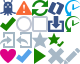
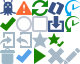
Deploy spaces-dev/SpacesPlus to github.com/spaces-dev/SpacesPlus.git:gh-pages

Changed region(s): [[0.0, 0.75, 0.2, 1.0]]

diff --git a/css/menu.css b/css/menu.css
@@ -1,1 +1,1 @@
-.sp-input-error{border:1px solid #ff9a95;background-color:#fdf3ef}.sp-cbfb+label:before{left:12px!important;top:13px!important}.sp-cbfc+label:before{left:10px!important;top:13px!important}.sp-cbfr+label:before{left:5px!important;top:2px!important}.rotate270{transform:rotate(270deg) translateY(-100%) translateY(100%) translateX(100%) translateX(-100%)!important}.rotate180{transform:rotate(180deg) translateY(100%) translateY(-100%)!important}.rotate90{transform:rotate(90deg)!important}.sp_settings-wrap{padding:11px 15px}.sp_bg-items{display:inline-block;max-width:100%;width:100%}.sp_weather-img{display:block;margin-left:auto;margin-right:auto}.sp_weather-container{margin-bottom:10px;text-align:center;font-size:18px}.sp_weather-table>tbody>tr>td{width:100%;max-width:inherit;padding-top:4px;overflow:hidden}.sp_weather-table>tbody>tr>td:last-child{text-align:right}.sp-ch-text{color:#57a3ea;padding-left:10px}.sp-del-text{color:#f86934;padding-left:10px}.sp-ch-readers{right:50px;top:-42px;padding-left:8px!important;padding-right:0!important}.sp-ch-blogs{padding:13px 5px 12px 30px!important}.pointer{cursor:pointer}.sp_unsupported{background:#f9edbf!important}@media (min-width:900px){.sticker{width:25rem;max-width:25rem!important}}.sp-sticker-anim{animation-duration:.3s;animation-name:fadeIn}@keyframes fadeIn{0%{opacity:0}to{opacity:1}}#api_debug-place{background:#ecf5fd;padding:8px;display:none}#api_debug-result_info{font-size:small}.mr-14{margin-right:14px!important}.sp_recent-del{float:left;margin:3px 0 0 5px;cursor:pointer}.sp_recent-smile-btn{padding:0 8px 2px 0;cursor:pointer}.sp_recent-smile{padding:2px;cursor:pointer}.smiles_menu{margin-bottom:10px}.sp_noborder{border-top:unset!important;border-bottom:unset!important}.sp_newbq_l{border-top:1px solid #c5d3e1!important}.sp_font_sm{font-size:small!important}.sp_last_btn{font-size:small;border-bottom:unset!important}.sp_plus_btn_list{width:50%;display:inline-block;box-sizing:border-box!important}.sp_error-block{padding-left:30px;font-size:small}.sp_plus_line_c:before{content:"";display:block;border-bottom:1px solid #cdd4e1;left:48px;right:80px;top:50%;position:absolute}.sp_plus_line_c{position:relative}.sp_plus_c_desc{font-size:small;margin-left:3rem}.sp_plus_c_wrap{padding:5px 15px 5px 16px;display:block}ul.list>li{margin:10px}.close_h:hover{opacity:.8}@media (min-width:1024px){.w400{max-width:400px}}.border{border:1px solid #b4bed1}#check_point_full_info{background:#4d5961;box-shadow:0 3px 5px #293238}#debug .check_point:hover,.tree_element:hover>.ns{background:#818f99}.disabled{cursor:not-allowed}div.row4{color:#000}input[type=range]{background:0 0;height:0;-webkit-appearance:none;margin:10px 0;width:100%}input[type=range]:focus{outline:0}input[type=range]::-webkit-slider-runnable-track{width:100%;height:10px;cursor:pointer;animation:.2s;background:#395387;border-radius:32px;border:0 solid #000}input[type=range]::-webkit-slider-thumb{border:0 solid #2497e3;height:10px;width:10px;border-radius:4px;background:#395387;cursor:pointer;-webkit-appearance:none;margin-top:0}input[type=range]:focus::-webkit-slider-runnable-track{background:#d2e3f4}input[type=range]::-moz-range-track{-webkit-box-shadow:inset 0 1px 2px #7690c7;-moz-box-shadow:inset 0 1px 2px #7690c7;box-shadow:inset 0 1px 2px #7690c7;width:100%;height:10px;cursor:pointer;animation:.2s;background:#d2e3f4;border-radius:32px;border:0 solid #000}input[type=range]::-moz-range-thumb{border:0 solid #2497e3;height:10px;width:10px;border-radius:4px;background:#395387;cursor:pointer}input[type=range]::-ms-track{width:100%;height:10px;cursor:pointer;animation:.2s;background:0 0;border-color:transparent;color:transparent}input[type=range]::-ms-fill-lower,input[type=range]::-ms-fill-upper{background:#d2e3f4;border:0 solid #000;border-radius:64px}input[type=range]::-ms-thumb{margin-top:1px;border:0 solid #2497e3;height:10px;width:10px;border-radius:4px;background:#395387;cursor:pointer}input[type=range]:focus::-ms-fill-lower,input[type=range]:focus::-ms-fill-upper{background:#d2e3f4}input[type=range]::-moz-range-progress{border-radius:4px;height:10px;background-color:#395387}input[type=range]::-ms-fill-lower{border-radius:4px;height:10px;background-color:#395387}@keyframes heartbeat{0%,40%,80%,to{-webkit-transform:scale(.75);-moz-transform:scale(.75);transform:scale(.75)}20%,60%{-webkit-transform:scale(1);-moz-transform:scale(1);transform:scale(1)}}.heart{-webkit-animation:heartbeat 1s infinite;-moz-animation:heartbeat 1s infinite;animation:heartbeat 1s infinite;display:inline-block;cursor:pointer}.no-select{-webkit-user-select:none;-moz-user-select:none;-ms-user-select:none}details summary:hover{cursor:pointer}.sp{background-image:url(../icons/icons.png);display:inline-block;width:16px;height:16px;margin:0 4px -3px 0}.sp-checkbox-checked+label,.sp-checkbox-circle+label,.sp-checkbox-square+label{position:relative;overflow:hidden;cursor:pointer;text-decoration:none!important}.sp-checkbox-checked+label{margin-left:5px;padding:0 4px;vertical-align:top;width:16px;height:16px;display:inline-block}.sp-checkbox-circle+label,.sp-checkbox-square+label{padding:11px 5px 12px 30px}.sp-checkbox-checked+label:before,.sp-checkbox-square+label:before{background-position:-32px -16px}.sp-checkbox-checked+label:before,.sp-checkbox-circle+label:before,.sp-checkbox-square+label:before{position:absolute;display:inline-block;content:"";width:16px;height:16px;background-color:transparent;background-image:url(../icons/icons.png)}.sp-checkbox-checked+label:before,.sp-checkbox-circle+label:before{background-position:-16px -16px}.sp-checkbox-circle+label:before,.sp-checkbox-square+label:before{left:0;top:12px}.sp-checkbox-checked+label:before{top:8px;margin-top:-8px}.sp-checkbox-checked:checked+label:before,.sp-checkbox-circle:checked+label:before,.sp-checkbox-square:checked+label:before{background-position:0 -16px}.sp-checkbox-checked,.sp-checkbox-circle,.sp-checkbox-square{position:absolute;left:-10000px}.sp_plus_line>span{background:#fff;padding:0 5px;position:relative;margin:0 10px;display:inline-block}.sp_plus_line:before{content:"";display:block;border-bottom:1px solid #cdd4e1;left:0;right:0;top:50%;position:absolute}.sp_plus_line{text-align:center;position:relative;font-weight:700}.sp_plus_text{color:#395387}.sp_lines{border-top:1px solid #c5d3e1!important}.bstrwrap{border-bottom:unset!important;border-top:1px solid #cdd4e1}input[type=color]{opacity:0;cursor:pointer}.sp_btn_line{border-right:1px solid #cdd4e1}.sp-qrcode{background-position:0 0}.sp-alert{background-position:-16px 0}.sp-backup-g{background-position:-32px 0}@media (max-width:899px){.sp-ico{background-position:-64px -32px!important}}.dark_theme .sp-ico{background-position:-64px -32px!important}.sp-ico{display:block;position:absolute;top:50%;margin:-8px 0 0 -26px;background-position:-48px 0}.sp-download-darkblue{background-position:-48px -16px}.sp-enter-grey{background-position:0 -32px}.sp-exit-grey{background-position:-16px -32px}@media (max-width:480px){.sp-fav,.sp-fav-on{display:none}}.sp-fav{background-position:-32px -32px}.sp-fav-on{background-position:-48px -32px}.sp-love{background-position:0 -48px}.sp-ok-blue{background-position:-16px -48px}.sp-play-green{background-position:-32px -48px}.sp-remove-grey{background-position:-48px -48px}.sp-restore-blue{background-position:-64px 0}.sp-restore-g{background-position:-64px -16px}.sp-write-grey{background-position:-64px -48px}
+.sp-input-error{border:1px solid #ff9a95;background-color:#fdf3ef}.sp-cbfb+label:before{left:12px!important;top:13px!important}.sp-cbfc+label:before{left:10px!important;top:13px!important}.sp-cbfr+label:before{left:5px!important;top:2px!important}.rotate270{transform:rotate(270deg) translateY(-100%) translateY(100%) translateX(100%) translateX(-100%)!important}.rotate180{transform:rotate(180deg) translateY(100%) translateY(-100%)!important}.rotate90{transform:rotate(90deg)!important}.trash-btn{float:left;margin:2px 2px 0 6px!important;cursor:pointer}.sp_settings-wrap{padding:11px 15px}.sp_bg-items{display:inline-block;max-width:100%;width:100%}.sp_weather-img{display:block;margin-left:auto;margin-right:auto}.sp_weather-container{margin-bottom:10px;text-align:center;font-size:18px}.sp_weather-table>tbody>tr>td{width:100%;max-width:inherit;padding-top:4px;overflow:hidden}.sp_weather-table>tbody>tr>td:last-child{text-align:right}.sp-ch-text{color:#57a3ea;padding-left:10px}.sp-del-text{color:#f86934;padding-left:10px}.sp-ch-readers{right:50px;top:-42px;padding-left:8px!important;padding-right:0!important}.sp-ch-blogs{padding:13px 5px 12px 30px!important}.pointer{cursor:pointer}.sp_unsupported{background:#f9edbf!important}@media (min-width:900px){.sticker{width:25rem;max-width:25rem!important}}.sp-sticker-anim{animation-duration:.3s;animation-name:fadeIn}@keyframes fadeIn{0%{opacity:0}to{opacity:1}}#api_debug-place{background:#ecf5fd;padding:8px;display:none}#api_debug-result_info{font-size:small}.mr-14{margin-right:14px!important}.sp_recent-smile-btn{padding:0 8px 2px 0;cursor:pointer}.sp_recent-smile{margin:2px;cursor:pointer}.smiles_menu{margin-bottom:10px}.sp_noborder{border-top:unset!important;border-bottom:unset!important}.sp_newbq_l{border-top:1px solid #c5d3e1!important}.sp_font_sm{font-size:small!important}.sp_last_btn{font-size:small;border-bottom:unset!important}.sp_plus_btn_list{width:50%;display:inline-block;box-sizing:border-box!important}.sp_error-block{padding-left:30px;font-size:small}.sp_plus_line_c:before{content:"";display:block;border-bottom:1px solid #cdd4e1;left:48px;right:80px;top:50%;position:absolute}.sp_plus_line_c{position:relative}.sp_plus_c_desc{font-size:small;margin-left:3rem}.sp_plus_c_wrap{padding:5px 15px 5px 16px;display:block}ul.list>li{margin:10px}.close_h:hover{opacity:.8}@media (min-width:1024px){.w400{max-width:400px}}.border{border:1px solid #b4bed1}#check_point_full_info{background:#4d5961;box-shadow:0 3px 5px #293238}#debug .check_point:hover,.tree_element:hover>.ns{background:#818f99}.disabled{cursor:not-allowed}div.row4{color:#000}input[type=range]{background:0 0;height:0;-webkit-appearance:none;margin:10px 0;width:100%}input[type=range]:focus{outline:0}input[type=range]::-webkit-slider-runnable-track{width:100%;height:10px;cursor:pointer;animation:.2s;background:#395387;border-radius:32px;border:0 solid #000}input[type=range]::-webkit-slider-thumb{border:0 solid #2497e3;height:10px;width:10px;border-radius:4px;background:#395387;cursor:pointer;-webkit-appearance:none;margin-top:0}input[type=range]:focus::-webkit-slider-runnable-track{background:#d2e3f4}input[type=range]::-moz-range-track{-webkit-box-shadow:inset 0 1px 2px #7690c7;-moz-box-shadow:inset 0 1px 2px #7690c7;box-shadow:inset 0 1px 2px #7690c7;width:100%;height:10px;cursor:pointer;animation:.2s;background:#d2e3f4;border-radius:32px;border:0 solid #000}input[type=range]::-moz-range-thumb{border:0 solid #2497e3;height:10px;width:10px;border-radius:4px;background:#395387;cursor:pointer}input[type=range]::-ms-track{width:100%;height:10px;cursor:pointer;animation:.2s;background:0 0;border-color:transparent;color:transparent}input[type=range]::-ms-fill-lower,input[type=range]::-ms-fill-upper{background:#d2e3f4;border:0 solid #000;border-radius:64px}input[type=range]::-ms-thumb{margin-top:1px;border:0 solid #2497e3;height:10px;width:10px;border-radius:4px;background:#395387;cursor:pointer}input[type=range]:focus::-ms-fill-lower,input[type=range]:focus::-ms-fill-upper{background:#d2e3f4}input[type=range]::-moz-range-progress{border-radius:4px;height:10px;background-color:#395387}input[type=range]::-ms-fill-lower{border-radius:4px;height:10px;background-color:#395387}@keyframes heartbeat{0%,40%,80%,to{-webkit-transform:scale(.75);-moz-transform:scale(.75);transform:scale(.75)}20%,60%{-webkit-transform:scale(1);-moz-transform:scale(1);transform:scale(1)}}.heart{-webkit-animation:heartbeat 1s infinite;-moz-animation:heartbeat 1s infinite;animation:heartbeat 1s infinite;display:inline-block;cursor:pointer}.no-select{-webkit-user-select:none;-moz-user-select:none;-ms-user-select:none}details summary:hover{cursor:pointer}.sp{background-image:url(../icons/icons.png);display:inline-block;width:16px;height:16px;margin:0 4px -3px 0}.sp-checkbox-checked+label,.sp-checkbox-circle+label,.sp-checkbox-square+label{position:relative;overflow:hidden;cursor:pointer;text-decoration:none!important}.sp-checkbox-checked+label{margin-left:5px;padding:0 4px;vertical-align:top;width:16px;height:16px;display:inline-block}.sp-checkbox-circle+label,.sp-checkbox-square+label{padding:11px 5px 12px 30px}.sp-checkbox-checked+label:before,.sp-checkbox-square+label:before{background-position:-32px -16px}.sp-checkbox-checked+label:before,.sp-checkbox-circle+label:before,.sp-checkbox-square+label:before{position:absolute;display:inline-block;content:"";width:16px;height:16px;background-color:transparent;background-image:url(../icons/icons.png)}.sp-checkbox-checked+label:before,.sp-checkbox-circle+label:before{background-position:-16px -16px}.sp-checkbox-circle+label:before,.sp-checkbox-square+label:before{left:0;top:12px}.sp-checkbox-checked+label:before{top:8px;margin-top:-8px}.sp-checkbox-checked:checked+label:before,.sp-checkbox-circle:checked+label:before,.sp-checkbox-square:checked+label:before{background-position:0 -16px}.sp-checkbox-checked,.sp-checkbox-circle,.sp-checkbox-square{position:absolute;left:-10000px}.sp_plus_line>span{background:#fff;padding:0 5px;position:relative;margin:0 10px;display:inline-block}.sp_plus_line:before{content:"";display:block;border-bottom:1px solid #cdd4e1;left:0;right:0;top:50%;position:absolute}.sp_plus_line{text-align:center;position:relative;font-weight:700}.sp_plus_text{color:#395387}.sp_lines{border-top:1px solid #c5d3e1!important}.bstrwrap{border-bottom:unset!important;border-top:1px solid #cdd4e1}input[type=color]{opacity:0;cursor:pointer}.sp_btn_line{border-right:1px solid #cdd4e1}.sp-qrcode{background-position:0 0}.sp-alert{background-position:-16px 0}.sp-backup-g{background-position:-32px 0}@media (max-width:899px){.sp-ico{background-position:-64px -32px!important}}.dark_theme .sp-ico{background-position:-64px -32px!important}.sp-ico{display:block;position:absolute;top:50%;margin:-8px 0 0 -26px;background-position:-48px 0}.sp-download-darkblue{background-position:-48px -16px}.sp-enter-grey{background-position:0 -32px}.sp-exit-grey{background-position:-16px -32px}@media (max-width:480px){.sp-fav,.sp-fav-on{display:none}}.sp-fav{background-position:-32px -32px}.sp-fav-on{background-position:-48px -32px}.sp-love{background-position:0 -48px}.sp-ok-blue{background-position:-16px -48px}.sp-play-green{background-position:-32px -48px}.sp-remove-grey{background-position:-48px -48px}.sp-restore-blue{background-position:-64px 0}.sp-restore-g{background-position:-64px -16px}.sp-write-grey{background-position:-64px -48px}.sp-grey-del{background-position:0 -48px}

diff --git a/spaces-plus.user.js b/spaces-plus.user.js
@@ -2175,7 +2175,7 @@ exports.recentSmiles = () => {
             }
             let smilesBody = utils_1.qs('.smiles_menu-body');
             let recentDelete = utils_1.ce('span', {
-                class: 'js-ico ico_mail ico_mail_garbage sp_recent-del',
+                class: 'sp sp-grey-del trash-btn',
                 onclick: () => {
                     utils_1.confirmBox('Вы действительно хотите очистить ранее использованные смайлики?', true, () => {
                         localStorage.removeItem('sp_recent_smiles');
@@ -2204,8 +2204,10 @@ exports.recentSmiles = () => {
                                     smile: smile
                                 },
                                 onclick: () => {
+                                    var _a;
                                     // Добавляем смайлик в поле ввода
-                                    document.querySelector('textarea[tabindex="1"]').value += smile + ' ';
+                                    let input = (_a = utils_1.qs('textarea[tabindex="1"]')) !== null && _a !== void 0 ? _a : utils_1.qs('textarea[name="msg"]');
+                                    input.value += smile + ' ';
                                 }
                             });
                             smilesBody.append(smileElem);
@@ -2224,7 +2226,7 @@ exports.recentSmiles = () => {
             smilesMenu.prepend(recentTab);
             // Кнопка очистки
             smilesMenu.prepend(recentDelete);
-            // Принудительно показываем смайлы смайлы, если доп. настройка включена и они у нас имеются
+            // Принудительно показываем ранее использованные смайлы, если доп. настройка включена и они у нас имеются
             if (settings_1._SETTINGS.recentSmiles.show && Object.keys(smilesStorage).length > 0)
                 utils_1.qs('#SP_RECENT_SMILES').click();
         }
